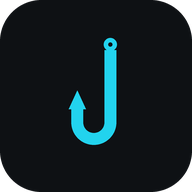
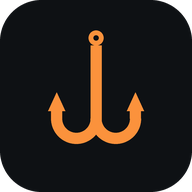
Помаранчевий акцент і іконка-трійник; фото обробляється до закриття форми

Changed region(s): [[0.25, 0.1562, 0.75, 0.7812]]

diff --git a/css/app.css b/css/app.css
@@ -8,8 +8,8 @@
   --line-soft: #20272f;
   --text: #e6edf2;
   --muted: #8d9aa6;
-  --accent: #22d3ee;
-  --accent-2: #67e8f9;
+  --accent: #fb923c;
+  --accent-2: #fdba74;
   --accent-soft: color-mix(in srgb, var(--accent) 16%, transparent);
   /* заливка кнопок і вибраного — окремо від акцентного тексту; у темній це той самий помаранчевий */
   --fill: var(--accent);
@@ -21,7 +21,7 @@
   --warn: #dbad3a;
   --clean: #4fa7cf;
   /* текст на заливці акцентом/купівлею/пострілом: на яскравому помаранчевому білий не читався (2.7:1) */
-  --on-accent: #04161a;
+  --on-accent: #1c0d02;
   --radius: 16px;
   --tabs-h: 64px;
   --shadow: 0 1px 0 rgb(255 255 255 / .03) inset, 0 6px 16px rgb(0 0 0 / .22);
@@ -57,12 +57,12 @@
   --text: #1f272d;
   --muted: #5a6670;
   /* темний помаранчевий — лише для тексту; кнопки й вибране — яскравий, як у темній, з темним текстом */
-  --accent: #0e7490;
-  --accent-2: #155e75;
+  --accent: #c2410c;
+  --accent-2: #9a3412;
   --accent-soft: color-mix(in srgb, var(--accent) 12%, transparent);
-  --fill: #22d3ee;
-  --fill-2: #67e8f9;
-  --on-fill: #04161a;
+  --fill: #fb923c;
+  --fill-2: #fdba74;
+  --on-fill: #1c0d02;
   /* темніші за темну тему: на білому світлі відтінки ледь читались (жовтий — 2:1) */
   --buy: #26803f;
   --shoot: #a5321f;
@@ -599,7 +599,7 @@ body:has(#layer .backdrop) .toast:not(.reminder) { bottom: auto; top: calc(env(s
 /* тост завжди темний: помаранчевий текст — сталий світлий, а не з теми */
 /* Нагадування — під шторкою (.backdrop — 20): не закриває її кнопки */
 .toast.reminder { z-index: 19; }
-.toast button { min-height: 44px; margin: -10px -6px -10px 0; border: 0; background: none; color: #67e8f9; font-weight: 800; cursor: pointer; padding: 4px 10px; }
+.toast button { min-height: 44px; margin: -10px -6px -10px 0; border: 0; background: none; color: #fdba74; font-weight: 800; cursor: pointer; padding: 4px 10px; }
 @keyframes toast-in { from { opacity: 0; transform: translateY(8px); } }
 
 .link-btn { padding: 0; border: 0; background: none; color: var(--accent-2); font: inherit; text-decoration: underline; cursor: pointer; }
@@ -675,11 +675,11 @@ body:has(#layer .backdrop) .toast:not(.reminder) { bottom: auto; top: calc(env(s
 .app-icon.big { width: 48px; height: 48px; border-radius: 12px; }
 
 /* Фон під картками (⚙ → Вигляд → Фон). Темний набір — для «Темної» й «Лайму», світлий — для «Світлої», у спецрежимах фону немає.
-   Відблиск у куті — від --accent, тож бірюзовий і лаймовий кожен свій */
+   Відблиск у куті — від --accent, тож помаранчевий і лаймовий кожен свій */
 [data-bg="map"] { --paper: radial-gradient(70% 40% at 100% 0%, color-mix(in srgb, var(--accent) 16%, transparent), transparent 70%),
   url(topo.svg) center / cover no-repeat, linear-gradient(180deg, var(--bg-glow) 0%, var(--bg) 100%); }
 /* «З акцентом»: тонкі плавні лінії — нейтральні й кілька кольору акценту. Малюнок — лише маска (lines*.svg),
-   колір дає тема, тож бірюзовий, лаймовий і темно-бірюзовий кожен свій. Шари — під усім вмістом */
+   колір дає тема, тож помаранчевий, лаймовий і темно-помаранчевий кожен свій. Шари — під усім вмістом */
 :root:is([data-bg="acc-lines"], [data-bg="l-acc-lines"]) { --paper: radial-gradient(120% 60% at 50% -10%, var(--bg-glow), var(--bg) 60%) var(--bg); }
 :root:is([data-bg="acc-lines"], [data-bg="l-acc-lines"]) body::before,
 :root:is([data-bg="acc-lines"], [data-bg="l-acc-lines"]) body::after {

diff --git a/js/changelog.js b/js/changelog.js
@@ -10,6 +10,7 @@ export const CHANGES = [
       'Фото речі, як у Shooter’s Log: «🔍 Знайти фото» в Google Картинках, «Вставити» скопійоване чи «Поділитися» → Fishing Log; «🔍 Характеристики»',
       'QR-наклейки на ящики: камера телефона відкриває місце з усім, що всередині',
       '«Хочу купити» з ціною; «Купив» — одразу в снасті. Google Диск, резервна копія, теми, українська й російська',
+      'Свій вигляд: помаранчевий акцент, як поплавок, і іконка-трійник',
     ],
     ru: [
       'Первая версия: снасти и места, где они лежат. Места вкладываются одно в другое — «Гараж → Шкаф → Ящик Plano №2»; переезд ящика везёт всё, что в нём',
@@ -19,6 +20,7 @@ export const CHANGES = [
       'Фото вещи, как в Shooter’s Log: «🔍 Найти фото» в Google Картинках, «Вставить» скопированное или «Поделиться» → Fishing Log; «🔍 Характеристики»',
       'QR-наклейки на ящики: камера телефона открывает место со всем, что внутри',
       '«Хочу купить» с ценой; «Купил» — сразу в снасти. Google Диск, резервная копия, темы, украинский и русский',
+      'Свой вид: оранжевый акцент, как поплавок, и иконка-тройник',
     ],
   },
 ];

diff --git a/version.js b/version.js
@@ -2,4 +2,4 @@
 self.APP_VERSION = '0.1.0';
 // Номер складання: версію для людей лишаємо, а цей рядок міняється з кожним оновленням —
 // інакше service worker вважає файли тими самими й не пропонує оновитись.
-self.APP_BUILD = '2026-11-12-1';
+self.APP_BUILD = '2026-11-12-2';
